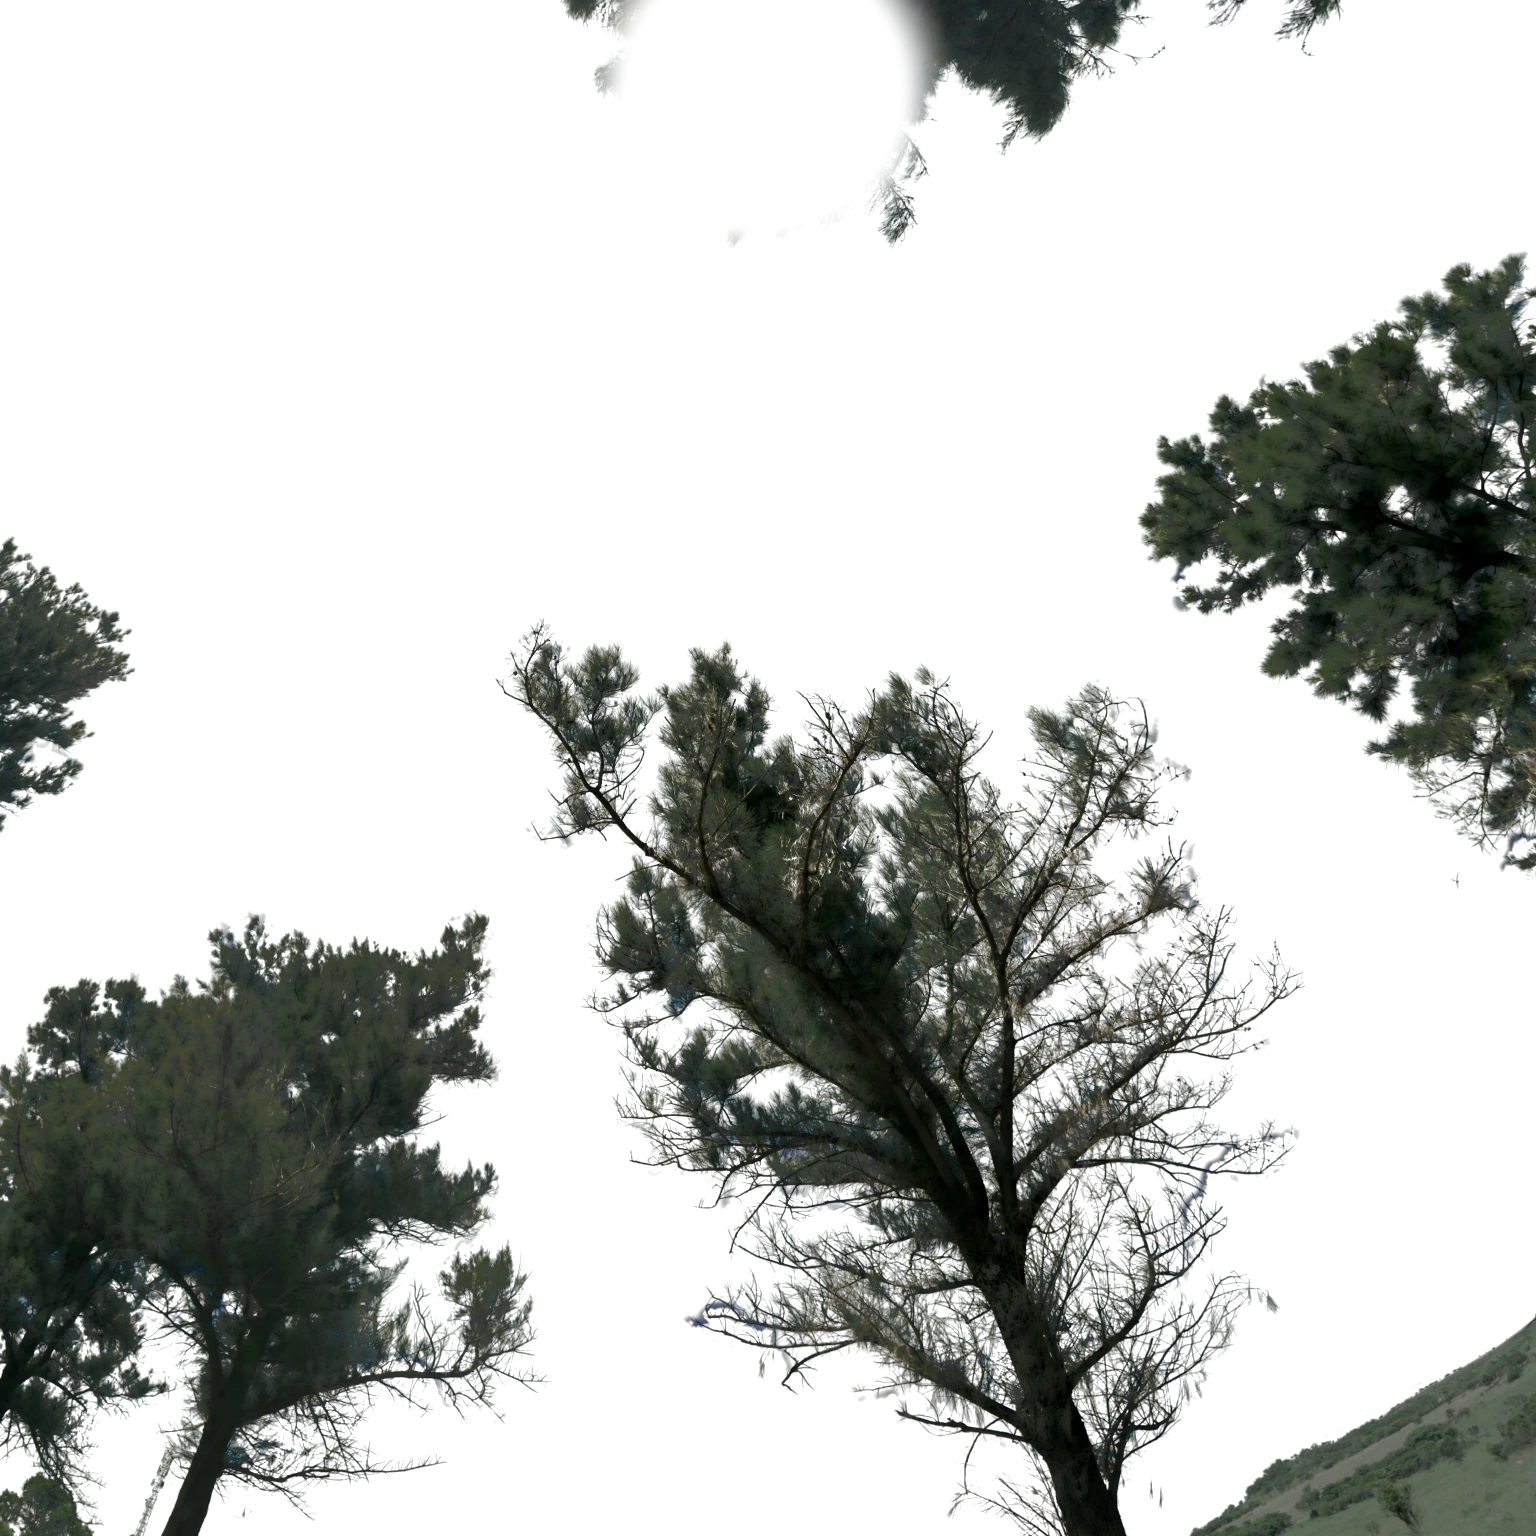
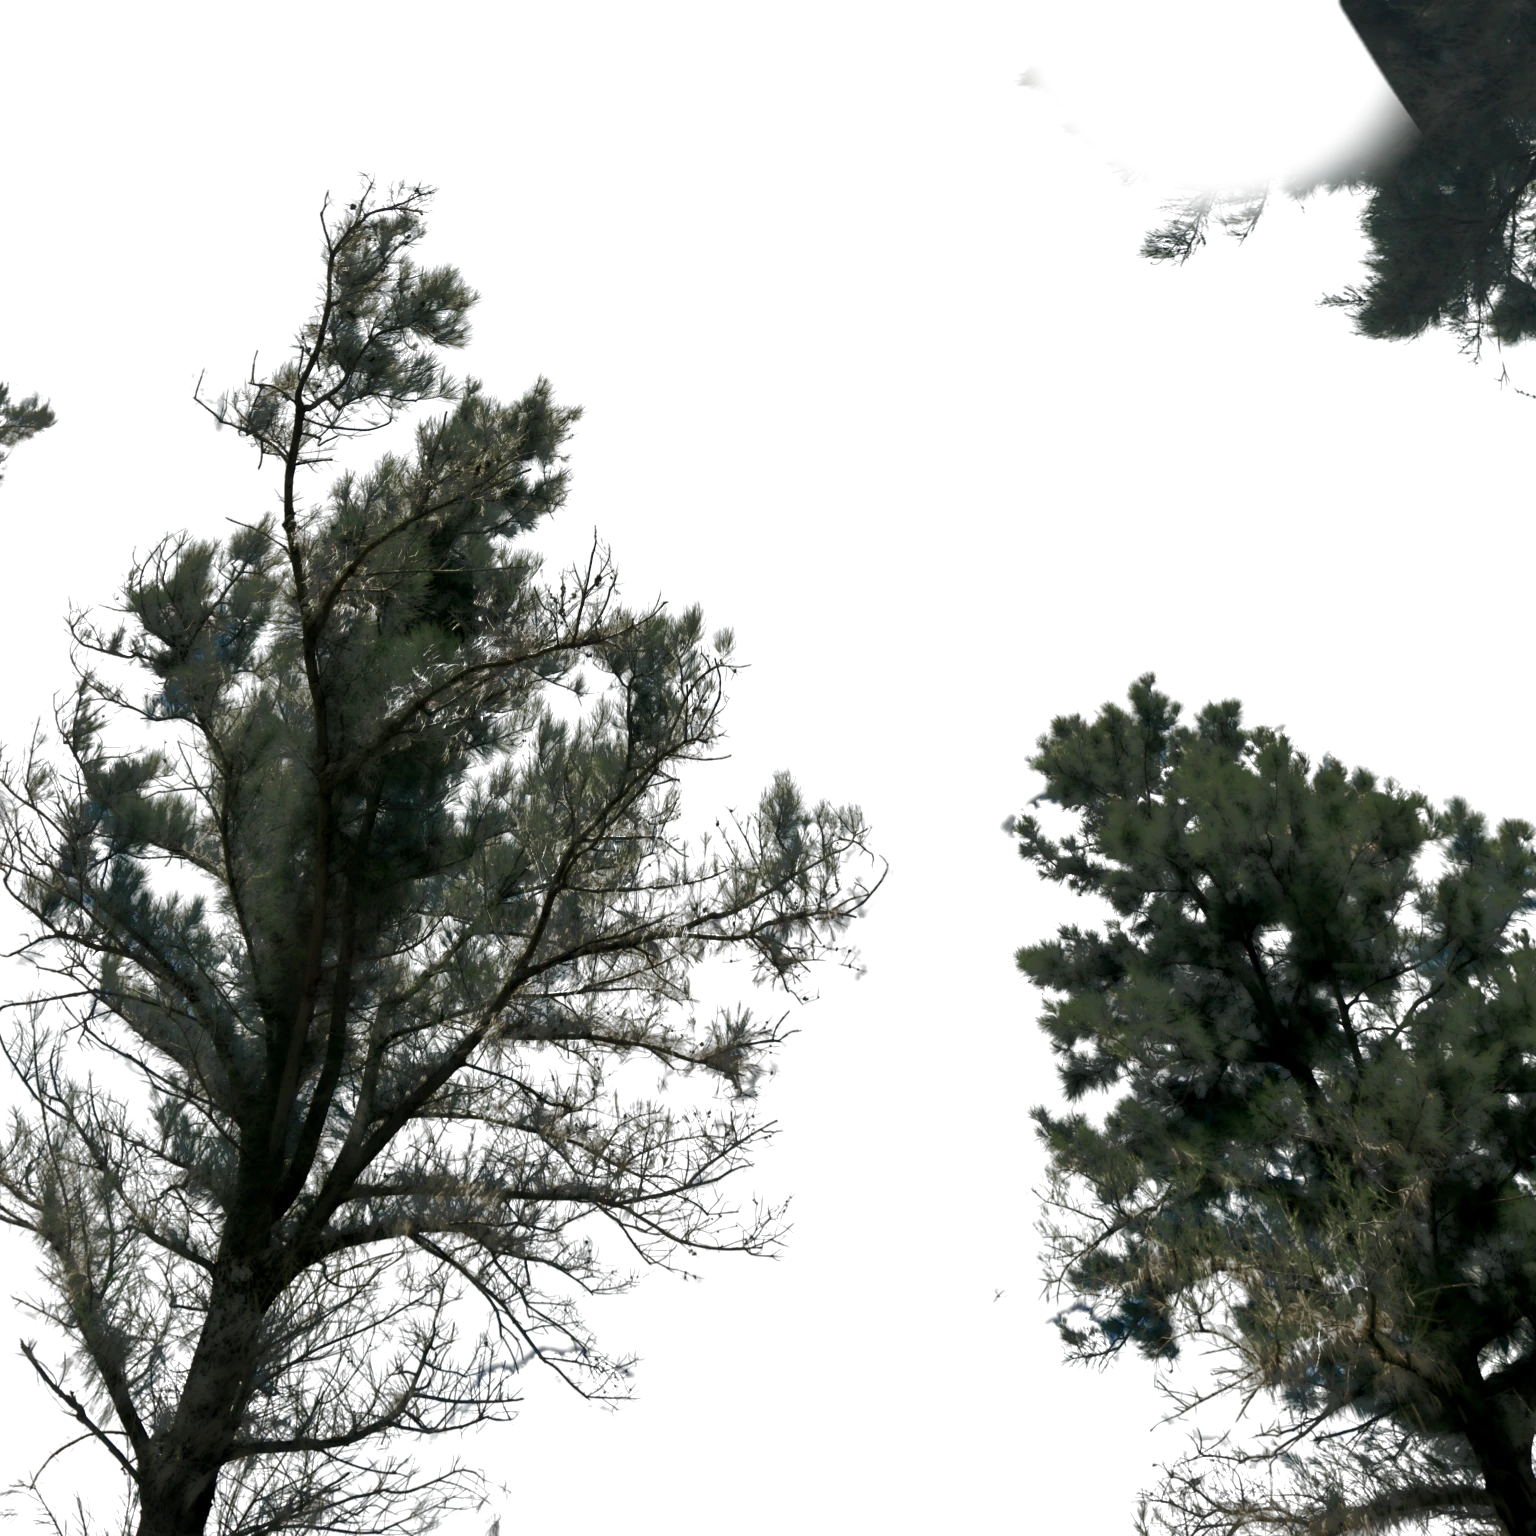
Lab: climb overexpose round 1
Claude-Session: https://claude.ai/code/session_01RqENhngNCzDFmJWDZueXGV

diff --git a/tools/depth/bakes/overexpose/reaim.py b/tools/depth/bakes/overexpose/reaim.py
@@ -1,35 +1,41 @@
-# The worm's-eye camera re-aimed at the cumulus (runs on the shipped bake, then
-# foliage.py's and cumulus.py's solves are run again through the new camera).
+# The worm's-eye camera re-aimed (runs on the shipped bake, then foliage.py's and
+# cumulus.py's solves are run again through the new camera).
 #
-# At the old aim (yaw 150, pitch +76, roll -10) the frame looked almost straight
-# up: the upper-left and centre (about 40% of the print) were empty cobalt and
-# the cumulus were small puffs pushed to the right and bottom edges, so the
-# overexposure had almost no cloud in the middle of the frame to act on. Here the
-# camera is turned about 28 deg towards the lower-right bank and lowered to
-# +66 deg (deepen.YAW / PITCH, the roll kept): the open cobalt shrinks to a band
-# overhead, the diagonal pine stands up with its trunk converging on the zenith,
-# and the banks fill the lower half of the square.
+# Second re-aim (this one). At yaw 178, pitch +66, a 116 deg field, the square
+# still had no subject: the upper centre was one empty band of cobalt, the
+# cumulus small puffs scattered along the bottom and right edges, and the far
+# hillside cut into the lower-right corner. Here the field is tightened to 90 deg
+# (the clouds print about 1.34x larger at the centre) and the camera turned 44 deg
+# towards the bank that stood at the old frame's lower right (yaw 222, pitch +59,
+# roll -2, deepen.YAW / PITCH / FOV / ROLL): that bank now fills the lower middle
+# of the square between the diagonal pine on the left and the round pine on the
+# right, the cobalt holds the upper middle, and the hidden sun's crown sits in
+# the top-right corner, the sun itself at the top edge. No ray dips under 5.9 deg elevation and the pines hold
+# both lower corners, so no hillside or horizon shows; the old ground layer is
+# not carried.
+#
+# First re-aim (kept for the record): at yaw 150, pitch +76 the frame looked
+# almost straight up, so it was turned 28 deg towards the lower-right bank and
+# lowered to +66 deg at the same 116 deg field.
 #
 # Every pass so far is a function of the direction on the sky (the dome field is
 # of zenith angle alone, the hidden sun's aureole of the angle from it), so the
-# shipped bake is carried over exactly: each pixel of the new frame is a ray, and
-# where that ray fell inside the old frame its scene, sky-hold key, ink and matte
-# are resampled from there (Lanczos, log-encoded codes). Where it did not (the
-# low sky the new aim reveals, about a fifth of the square, mostly at the
-# bottom and right) the plate starts as the clean dome field (polarise.py's dome
-# and crown.py's aureole, with foliage.dome's low-order fit) times grain matched
-# to the photograph's, and the pines and cumulus are then solved there, and
-# everywhere else, from the 8k HDR's own radiance through the new camera by
-# foliage.foliage() and cumulus.cumulus(), exactly as they were solved before.
-# The hidden sun keeps its direction (deepen.U / V are its new frame position),
-# so crown.py's crown and glow carry over untouched. The old foliage.py STRIP
-# (a smeared strip at the old right edge, already rebuilt) is not rebuilt again.
-#
-# At pitch +66 the frame's lowest corner dips a few degrees under the horizon
-# and shows the far hillside (about 1% of the square, at the lower right). It
-# is laid in the pines' ink layer at full coverage, its own radiance taken down
-# by the same gain as the needles, so it prints as a dark distant ridge at 0 EV
-# and opens to its own green as the exposure lifts the shadows, as the trees do.
+# shipped bake is carried over exactly where it must be: each pixel of the new
+# frame is a ray, and where that ray fell inside the old frame its scene,
+# sky-hold key, ink and matte are resampled from there (Lanczos, log-encoded
+# codes). That is kept only round the hidden sun (CARRY_DEG), where crown.py's
+# crown, its pin-holes, the aureole and the glow key live and no solve can
+# rebuild them. Everywhere else the tighter field would only magnify the old
+# plate (and its grain) by up to 1.4x, so the open sky is laid fresh as the
+# clean dome field (polarise.py's dome and crown.py's aureole, with
+# foliage.dome's low-order fit on the carried bake's open sky) times grain
+# matched to the photograph's at the bake's own scale, and the pines and the
+# cumulus are then solved from the 8k HDR's own radiance through the new camera
+# by foliage.foliage() and cumulus.cumulus(), exactly as they were solved before.
+# The hidden sun keeps its direction (deepen.U / V are its new frame position).
+# Where the new frame reaches past the old one's top edge the crown has nothing
+# to carry, so there (and across the carry's feather) it is solved from the HDR as
+# the other pines are.
 #
 # Last, the optics: what the old optics held beyond a blur of the old visible
 # scene (the disc's veil around the hidden sun, beyond the encoding) is carried
@@ -53,39 +59,40 @@ import canopy
 import wormseye_lib as wlib
 
 LUMA = np.array([0.2126, 0.7152, 0.0722])
-OLD = (150.0, 76.0, -10.0, 0.3906, 0.1706)   # yaw, pitch, roll, hidden sun U, V of the old aim
+OLD = (178.0, 66.0, -10.0, 116.0, 0.4973, 0.0625)   # yaw, pitch, roll, field, hidden sun U, V of the bake carried over
+# (the first re-aim carried (150, 76, -10, 116, 0.3906, 0.1706) over to this one)
+OLD_GRAIN_BOX = (100, 330, 1050, 620)        # open sky in the old frame the grain is measured on (x0, y0, x1, y1)
+CARRY_DEG = (20.0, 27.0)                     # the old bake is kept this close to the hidden sun, fading out to the second
 FEATHER_PX = 10                              # the carried-over bake fades into the new plate over this band inside the old frame's edge
-GROUND_EL = 10.0                             # elevation (deg) under which the HDR may be ground
-GROUND_BG = -0.1                             # ... where it is green: log2 B/G under this, joined to what is under the horizon
 
 def smooth(a, lo, hi):
     t = np.clip((a - lo) / (hi - lo), 0, 1)
     return t * t * (3 - 2 * t)
 
-def cam_dir(R, u, v):
-    a = np.radians(deepen.FOV) / 2
+def cam_dir(R, u, v, fov):
+    a = np.radians(fov) / 2
     X, Y = 2 * u - 1, 2 * v - 1
     r = np.hypot(X, Y); th = 2 * np.arctan(r * np.tan(a / 2)); ph = np.arctan2(-Y, X)
     return R @ np.array([np.sin(th) * np.cos(ph), np.sin(th) * np.sin(ph), np.cos(th)])
 
-def to_frame(dw, R):
-    """World directions -> (u, v) in 0..1 of a frame with camera rotation R, and the angle off its axis."""
+def to_frame(dw, R, fov):
+    """World directions -> (u, v) in 0..1 of a frame with camera rotation R and field fov, and the angle off its axis."""
     dc = dw @ R
     th = np.arccos(np.clip(dc[..., 2], -1, 1)); ph = np.arctan2(dc[..., 1], dc[..., 0])
-    r = np.tan(th / 2) / np.tan(np.radians(deepen.FOV) / 4)
+    r = np.tan(th / 2) / np.tan(np.radians(fov) / 4)
     return (r * np.cos(ph) + 1) / 2, (-r * np.sin(ph) + 1) / 2, np.degrees(th)
 
 def new_sun():
     """The hidden sun's direction (old aim) in the new frame."""
-    s = cam_dir(wlib.rot(*OLD[:3]), OLD[3], OLD[4])
-    u, v, _ = to_frame(s, wlib.rot(deepen.YAW, deepen.PITCH, deepen.ROLL))
+    s = cam_dir(wlib.rot(*OLD[:3]), OLD[4], OLD[5], OLD[3])
+    u, v, _ = to_frame(s, wlib.rot(deepen.YAW, deepen.PITCH, deepen.ROLL), deepen.FOV)
     return float(u), float(v)
 
 def remap_maps(n):
     """For each pixel of the new frame (n x n), its position in the old frame (px), and whether it lies inside."""
     R0 = wlib.rot(*OLD[:3]); R1 = wlib.rot(deepen.YAW, deepen.PITCH, deepen.ROLL)
     dw = wlib.rays(n, deepen.FOV, 'stereo') @ R1.T
-    u, v, th = to_frame(dw, R0)
+    u, v, th = to_frame(dw, R0, OLD[3])
     mx = (u * n - 0.5).astype(np.float32); my = (v * n - 0.5).astype(np.float32)
     inside = (mx >= 0) & (mx <= n - 1) & (my >= 0) & (my <= n - 1) & (th < 120)
     # distance (px, in the new frame) from the old frame's edge, inside it
@@ -99,29 +106,6 @@ def warp(a, mx, my, interp=cv2.INTER_LANCZOS4):
     if a.ndim == 2:
         return cv2.remap(a, mx, my, interp, borderMode=cv2.BORDER_REFLECT)
     return np.stack([cv2.remap(a[..., c], mx, my, interp, borderMode=cv2.BORDER_REFLECT) for c in range(a.shape[-1])], -1)
-
-def ground(raw, gain):
-    """The far hillside under the horizon: matte from the HDR, ink at the needles' gain."""
-    R1 = wlib.rot(deepen.YAW, deepen.PITCH, deepen.ROLL)
-    dw = wlib.rays(raw.shape[0], deepen.FOV, 'stereo') @ R1.T
-    el = np.degrees(np.arcsin(np.clip(dw[..., 1], -1, 1)))
-    # worked on a reflected margin, so the morphology does not pull the matte off the frame's edge
-    P = 8
-    raw0 = raw
-    raw = np.pad(raw, ((P, P), (P, P), (0, 0)), mode='reflect'); el = np.pad(el, P, mode='reflect')
-    # grass, scrub and the treeline on the ridge are green (blue under green); sky and cloud are not
-    bg = np.log2(np.maximum(raw[..., 2], 1e-6) / np.maximum(raw[..., 1], 1e-6))
-    core = (bg < GROUND_BG) & (el < GROUND_EL)
-    lab, _ = ndi.label(core)
-    keep = np.isin(lab, np.unique(lab[el < -0.5])) & (lab > 0)
-    keep = ndi.binary_fill_holes(ndi.binary_closing(keep, iterations=2))
-    m = np.maximum(keep * 1.0, 0) * (1 - smooth(bg, GROUND_BG - 0.15, GROUND_BG + 0.15))
-    m = np.maximum(m, ndi.binary_erosion(keep, iterations=2) * 1.0)
-    m = ndi.gaussian_filter(m * ndi.binary_dilation(keep, iterations=1), 0.6)[P:-P, P:-P]
-    I = raw0 * gain
-    Y = np.maximum(I @ LUMA, 1e-6)[..., None]
-    chroma = (1 - foliage.INK_COOL) * I / Y + foliage.INK_COOL * canopy.COOL
-    return np.clip(m, 0, 1), np.clip(Y * chroma, 2.0 ** bw.LO, 2.0 ** bw.HI)
 
 def main():
     s = np.asarray(Image.open(sys.argv[1]).convert('RGBA')); t = np.asarray(Image.open(sys.argv[2]).convert('RGBA'))
@@ -151,21 +135,26 @@ def main():
     ink = bw.dec_log(np.clip(warp(t[..., :3].astype(np.float32), mx, my), 0, 255))
     ta = np.clip(warp(old_ta, mx, my), 0, 1)
 
-    # 2. the revealed sky: the clean dome field times the photograph's grain
+    # 2. the open sky: the clean dome field times the photograph's grain, at the bake's
+    #    own scale; the old bake is kept only round the hidden sun (crown.py's crown and glow)
     elev, g = deepen.geometry()
     T = polarise.sky_field(90.0 - elev)
     N = T + crown.aureole(T, g)
+    foliage.GRAIN_BOX = OLD_GRAIN_BOX
     rng = np.random.default_rng(61)
-    G = foliage.grain(old_grain_pix, (n, n), rng)        # measured on the old frame's open sky (foliage.GRAIN_BOX)
+    G = foliage.grain(old_grain_pix, (n, n), rng)        # measured on the old frame's open sky
     w_in = smooth(dist, 1.0, FEATHER_PX)[..., None] * inside[..., None]
     key_glow = 3 + 252 * (1 - sunburst.KEY_A * np.exp(-g / sunburst.KEY_DEG))
     fill = N * G
     pix = w_in * pix + (1 - w_in) * fill
     a8 = w_in[..., 0] * a8 + (1 - w_in[..., 0]) * key_glow
     ta = ta * w_in[..., 0]
-    # the dome's low-order fit on the new frame, then the fill again with it
+    # the dome's low-order fit on the carried bake's open sky, then the fill with it
     D, _ = foliage.dome(pix, np.round(a8).astype(np.uint8), ~(w_in[..., 0] > 0.99), g, np.zeros((n, n)))
-    pix = w_in * pix + (1 - w_in) * D * G
+    w_keep = w_in * (1 - smooth(g, *CARRY_DEG))[..., None]
+    print('old bake kept on %.3f of the frame (round the hidden sun)' % float((w_keep > 0.5).mean()))
+    pix = w_keep * pix + (1 - w_keep) * D * G
+    a8 = w_keep[..., 0] * a8 + (1 - w_keep[..., 0]) * key_glow
     a8 = np.clip(np.round(a8), 0, 255).astype(np.uint8)
 
     # 3. the pines and the cumulus solved again from the HDR through the new camera
@@ -174,14 +163,11 @@ def main():
     foliage.grain = lambda p, shape, r: grain0(old_grain_pix, shape, r)   # measured on the old frame's open sky
     raw = foliage.render(hdr)
     rng = np.random.default_rng(41)
-    plate, a8f, I, a, diag = foliage.foliage(pix, a8, ink, ta, raw, rng)
-    # the hillside under the horizon, at the needles' gain
-    solid = (diag['a'] > 0.92) & (ta > 0.99)
-    gain = np.exp(np.median(np.log(np.maximum(I[solid] @ LUMA, 1e-6))) - np.median(np.log(np.maximum(raw[solid] @ LUMA, 1e-6))))
-    gm, gI = ground(raw, gain)
-    print('ground: %.4f of frame, ink gain %.2f stops' % (float((gm > 0.5).mean()), np.log2(gain)))
-    I = gm[..., None] * gI + (1 - gm[..., None]) * I
-    a = np.maximum(a, gm)
+    # round the hidden sun the crown is crown.py's, carried over; where the new frame
+    # reaches past the old one's edge there is none to carry, so it is solved there too
+    # (and across the carry's feather, so the seam is under solid needle, not mixed sky)
+    w_crown = np.maximum(smooth(g, *foliage.CROWN_DEG), 1 - smooth(dist, FEATHER_PX, FEATHER_PX + 6.0) * inside)
+    plate, a8f, I, a, diag = foliage.foliage(pix, a8, ink, ta, raw, rng, crown_w=w_crown)
     rng = np.random.default_rng(53)
     out, a8n, cdiag = cumulus.cumulus(plate, a8f, a, raw, rng)
     out = np.clip(out, 2.0 ** bw.LO, 2.0 ** bw.HI)
@@ -191,7 +177,7 @@ def main():
     S = 512; k = n // S
     ex_d = warp(extra[:, :S], mx[::k, ::k] / k, my[::k, ::k] / k, cv2.INTER_LINEAR)
     ex_h = warp(extra[:, S:], mx[::k, ::k] / k, my[::k, ::k] / k, cv2.INTER_LINEAR)
-    w_s = cv2.resize(w_in[..., 0].astype(np.float32), (S, S), interpolation=cv2.INTER_AREA)[..., None]
+    w_s = cv2.resize(w_keep[..., 0].astype(np.float32), (S, S), interpolation=cv2.INTER_AREA)[..., None]
     ex = np.concatenate([ex_d * w_s, ex_h * w_s], 1)
     glow = np.maximum(bw.optics(vis) + ex, 2.0 ** bw.LO)
 
@@ -208,7 +194,7 @@ def main():
     for f in ('scene.webp', 'trees.webp', 'optics.png'):
         print(f, os.path.getsize(os.path.join(od, f)) // 1024, 'KB')
     if len(sys.argv) > 5:
-        v = np.stack([diag['a'], cdiag['d'], w_in[..., 0]], -1)
+        v = np.stack([diag['a'], cdiag['d'], w_keep[..., 0]], -1)
         Image.fromarray((np.clip(v, 0, 1) * 255).astype(np.uint8)).save(os.path.join(od, 'reaim_diag.png'))
 
 if __name__ == '__main__':

diff --git a/tools/depth/bakes/overexpose/deepen.py b/tools/depth/bakes/overexpose/deepen.py
@@ -39,10 +39,11 @@ from scipy import ndimage as ndi
 import wormseye_lib as wlib
 import bake_wormseye as bw
 
-YAW, PITCH, FOV, ROLL, SIZE = 178.0, 66.0, 116.0, -10.0, 1536   # the worm's-eye crop, re-aimed at the cumulus by reaim.py
-U, V = 0.4973, 0.0625                                             # the hidden sun (resun.py's direction) in that frame
-# (every pass up to cumulus.py ran at the old aim, yaw 150, pitch +76, the hidden sun at U, V = 0.3906, 0.1706;
-#  reaim.OLD keeps it. Re-running an earlier pass needs those values back.)
+YAW, PITCH, FOV, ROLL, SIZE = 222.0, 59.0, 90.0, -2.0, 1536    # the worm's-eye crop, re-aimed at the cumulus bank by reaim.py
+U, V = 0.7867, 0.0048                                             # the hidden sun (resun.py's direction) in that frame
+# (every pass up to cumulus.py ran at yaw 150, pitch +76, field 116, the hidden sun at U, V = 0.3906, 0.1706;
+#  the first re-aim moved it to yaw 178, pitch +66 (U, V = 0.4973, 0.0625), reaim.OLD keeps that.
+#  Re-running an earlier pass needs those values back.)
 LUMA = np.array([0.2126, 0.7152, 0.0722])
 ZEN = np.array([0.072, 0.142, 0.235])      # open sky overhead; prints #2f6fc0 at 0 EV
 EDGE = np.array([0.2, 0.37, 0.54])        # open sky ~5 deg above the horizon: paler, as low sky is

diff --git a/tools/depth/bakes/overexpose/foliage.py b/tools/depth/bakes/overexpose/foliage.py
@@ -251,10 +251,12 @@ def strip_mask(n):
     inside = ((xx >= x0) & (xx < x1) & (yy >= y0) & (yy < y1)).astype(float)
     return ndi.gaussian_filter(inside, f / 2.5)
 
-def foliage(pix, a8, old_ink, old_a, raw, rng):
+def foliage(pix, a8, old_ink, old_a, raw, rng, crown_w=None):
+    """crown_w, when given, replaces the weight that leaves the crown round the hidden sun
+    to crown.py (reaim.py lifts it where the old bake holds no crown to carry over)."""
     n = pix.shape[0]
     _, g = deepen.geometry()
-    w = smooth(g, *CROWN_DEG)
+    w = smooth(g, *CROWN_DEG) if crown_w is None else crown_w
     a, B, F, _ = coverage(raw)
     a_s = a * smooth(a, *A_DEAD)
     a_s = np.clip(a_s / A_FULL, 0, 1) * w
